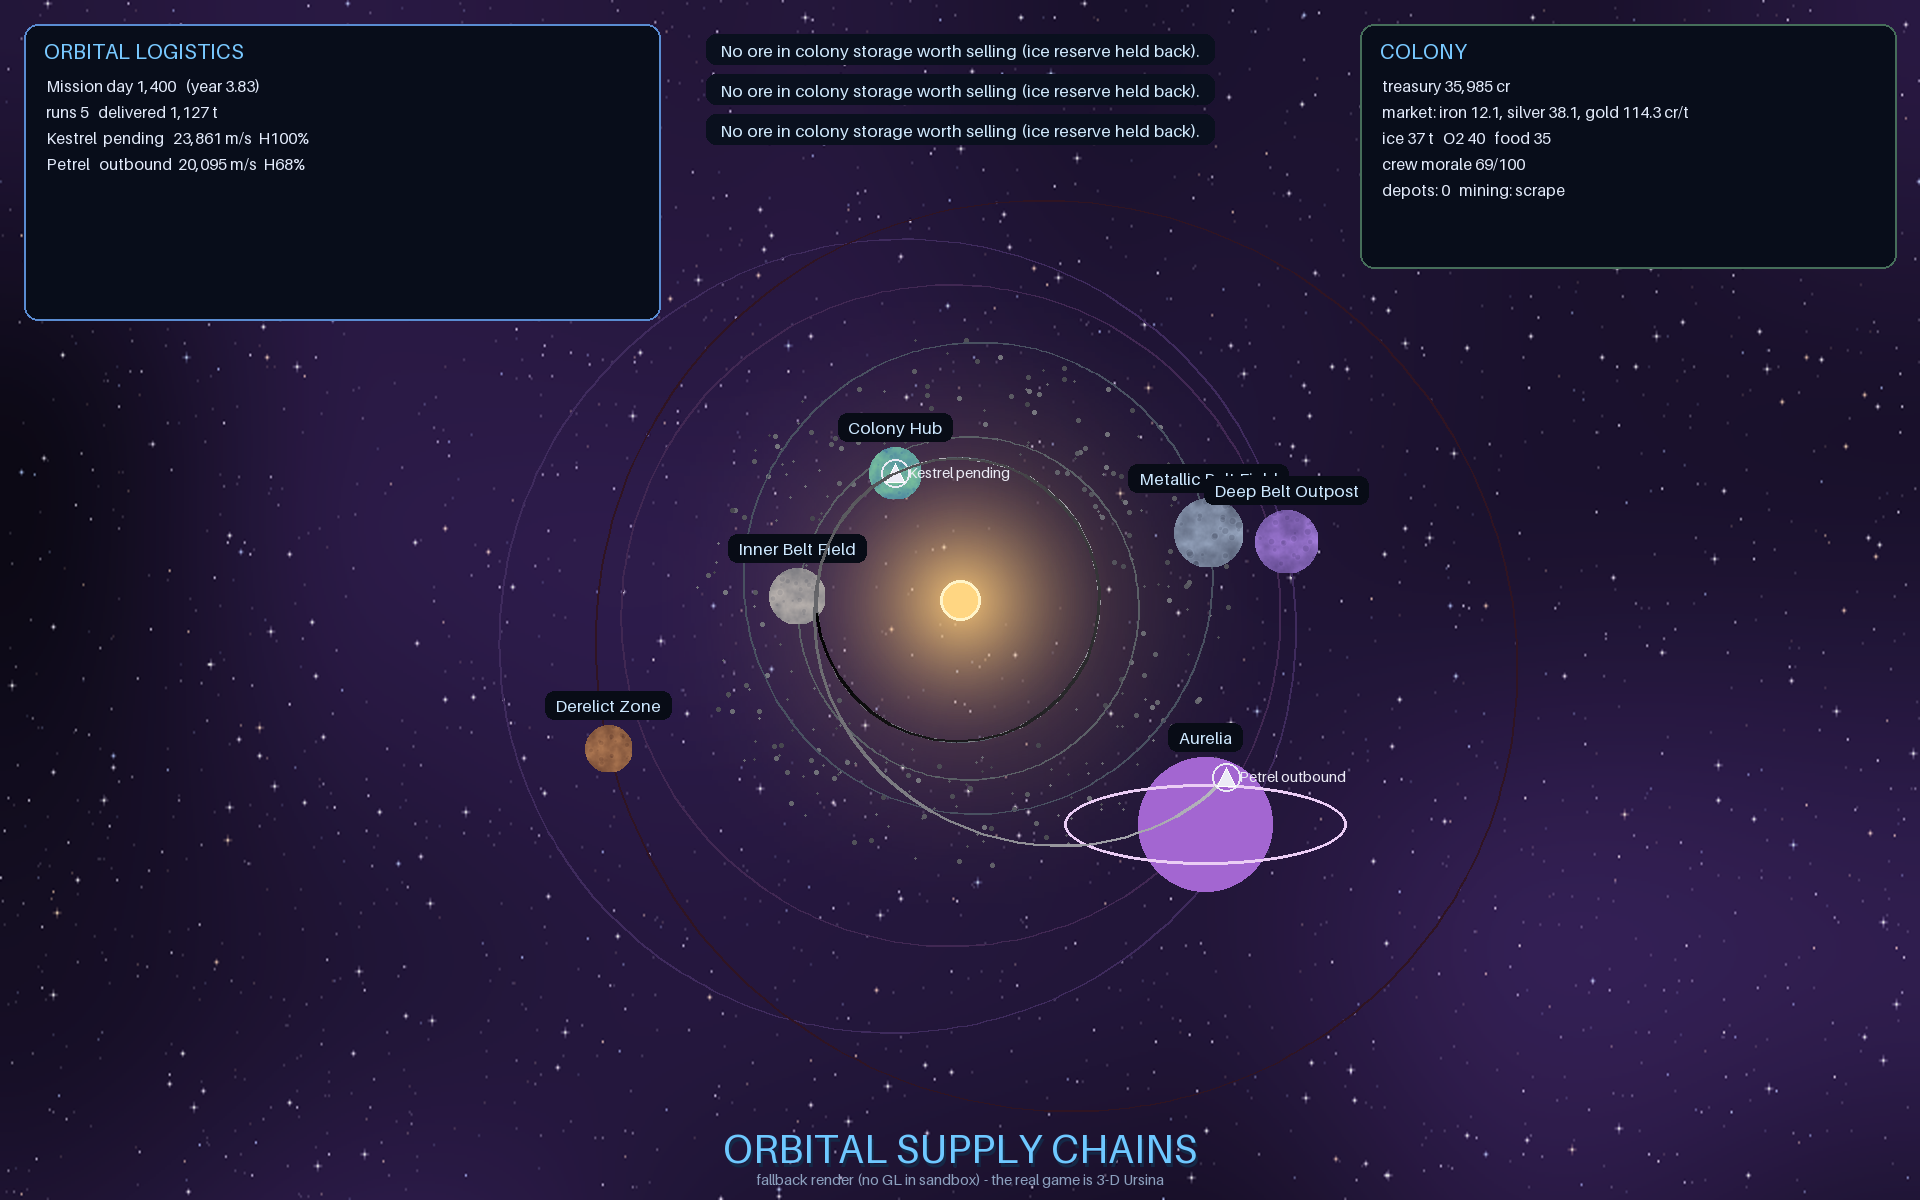
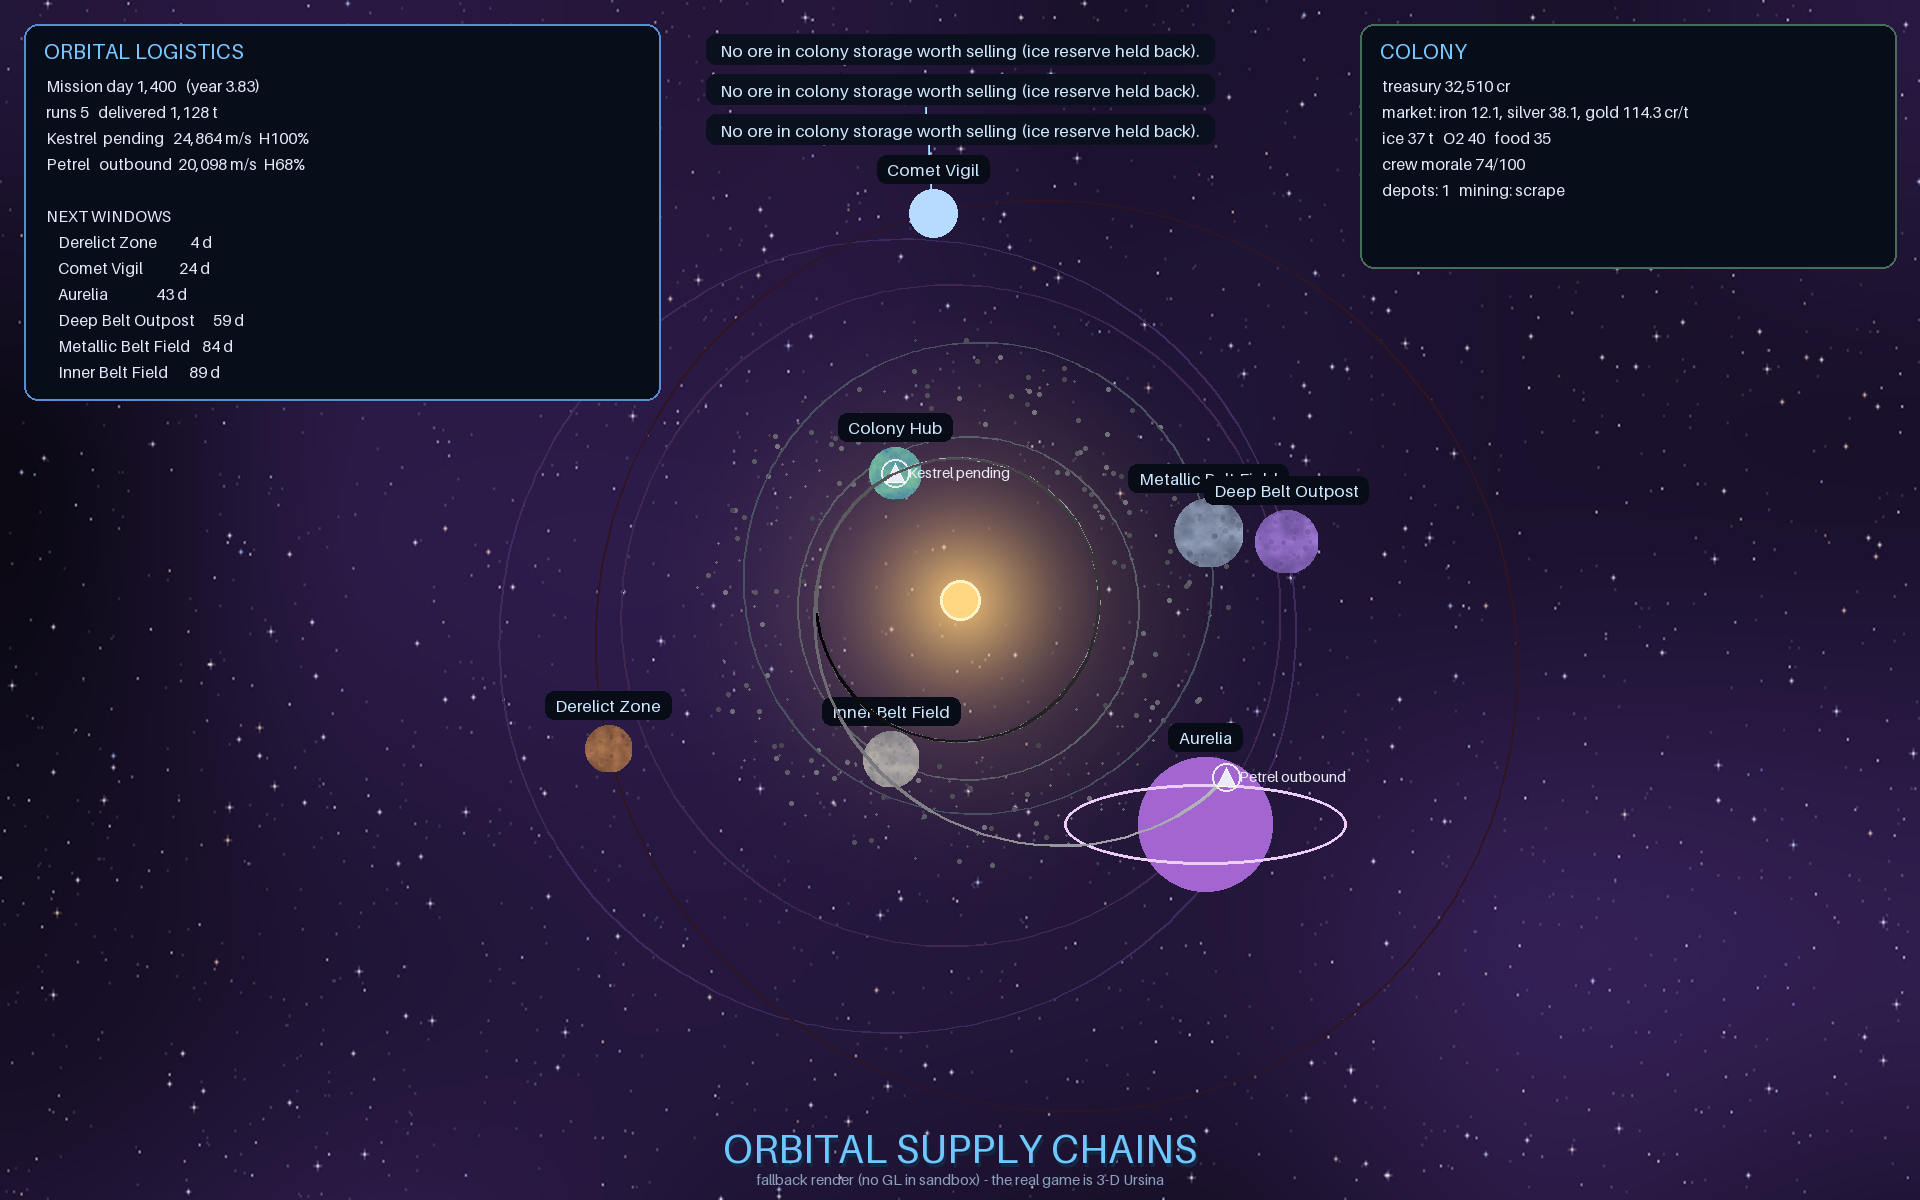
Wrap the feature build: docs, run-log, key-art refresh with comet and board

diff --git a/scripts/capture_frame.py b/scripts/capture_frame.py
@@ -111,11 +111,15 @@ def _fallback_capture(reason: BaseException) -> int:
     # A lively mid-game moment: ~1,000 days in, fleet busy, colony funded.
     dt_days = 2.0
     next_sale = 90.0 * SIM_SECONDS_PER_DAY
+    depot_built = False
     for _ in range(FRAMES):
         game.update(dt_days)
         if game.sim.time >= next_sale:
             next_sale += 90.0 * SIM_SECONDS_PER_DAY
             game.sell_all()
+        if not depot_built and game.credits > 8000.0:
+            game.build_depot_selected()   # headless default: the deep belt
+            depot_built = True
         for ship in game.sim.ships:
             r, _ = ship.state_at(game.sim.time)
             trails[ship.name].append((float(r[0]), float(r[1])))
@@ -187,12 +191,21 @@ def _fallback_capture(reason: BaseException) -> int:
         if len(pts) > 1:
             draw.line(pts, fill=tuple(int(c * 0.40) for c in rgb), width=2)
 
-    for key, body in BODIES.items():
+    for key, body in list(game.sim.bodies.items()):
         if key == "nix":
             continue
         r_body, _ = body_state(body.elements, 4 * math.pi * math.pi, now)
         bx, by = p(float(r_body[0]), float(r_body[1]))
         diameter = int(30 + 44 * body.render_scale)
+        if key == "comet_vigil":
+            # Anti-sunward tail, brightness by distance.
+            dist = math.hypot(r_body[0], r_body[1])
+            strength = max(0.0, min(1.0, 1.6 / max(0.9, dist) ** 1.6))
+            if strength > 0.02:
+                ux, uy = -r_body[0] / dist, -r_body[1] / dist  # toward the sun
+                tx, ty = p(float(r_body[0]) - ux * 0.9, float(r_body[1]) - uy * 0.9)
+                draw.line((bx, by, tx, ty), fill=(120, 190, 235), width=max(2, int(9 * strength)))
+                draw.line((bx, by, tx, ty), fill=(190, 225, 250), width=max(1, int(3 * strength)))
         tex_path = os.path.join("assets", "textures", "game", f"{key}.png")
         if os.path.isfile(tex_path):
             tex = Image.open(tex_path).convert("RGB").resize((diameter, diameter))
@@ -252,10 +265,15 @@ def _fallback_capture(reason: BaseException) -> int:
         fleet_lines.append(
             f"{report['name']:<8} {report['status']:<9} {report['delta_v_left']:>6,.0f} m/s  H{hull:.0f}%"
         )
-    panel((24, 24, 660, 320), "ORBITAL LOGISTICS", [
+    game._update_windows_board()
+    board_lines = ["NEXT WINDOWS"]
+    for name, wait, is_open in game._windows_board[:6]:
+        board_lines.append(f"GO  {name}" if is_open else f"    {name:<20}{wait:>5,.0f} d")
+    panel((24, 24, 660, 400), "ORBITAL LOGISTICS", [
         f"Mission day {days:,.0f}   (year {days / 365.25:.2f})",
         f"runs {game.sim.stats['runs_completed']}   delivered {game.sim.stats['mass_delivered']:,.0f} t",
         *fleet_lines,
+        *([""] + board_lines),
     ])
     resources = game.colony.state["resources"]
     prices = ", ".join(f"{res} {game.market.price(res):.1f}" for res in ("iron", "silver", "gold"))

diff --git a/project.md b/project.md
@@ -63,9 +63,11 @@ The upstream `asteroid-colony` economic regions are modelled as real heliocentri
 | Gravitational perturbations | Every 500-950 days a passing body shifts one belt orbit slightly; the campaign's own body table changes, window caches drop and the fleet re-plans; the verified module constants and tests are untouched. |
 | Jump-to-event | `J` cycles upcoming moments (window openings, ETAs, flare warnings, order deadlines) and races the warp to them, restoring the old warp on arrival; a bottom ticker streams the latest log entry. |
 | Save / load | F5/F9 quick-save of the full game state (ships in flight, missions, windows, ledgers, market RNG, colony state, crews, weather, contracts) as JSON via the upstream savegame slots. |
-| Rendering | Ursina scene: inverted starfield-sprite skybox, layered sun corona billboards, unlit textured planets with billboard name tags, double ring on Aurelia, a 240-rock scattered belt, stylised multi-part freighters with per-class hull tints and textured engine flares, fading trails, smoothed chase camera, click-to-target picking. |
-| Game shell | Title screen with cinematic drift (ENTER launches), ESC pause card, toast stack, launch-window GO moment (blinking banner + chime when the selected window opens), launch-window countdown line. |
+| Rendering | Ursina scene: inverted starfield-sprite skybox, layered sun corona billboards, unlit textured planets with billboard name tags, double ring on Aurelia, the whole asteroid belt baked into a single mesh (one draw call), per-class ship silhouettes (needle scout, barge hauler, drummed refinery) with tints and textured engine flares, fading trails, smoothed chase camera, click-to-target picking, pulsing target reticle, quality presets. |
+| Game shell | Keyboard-navigable title menu (new game / continue / load / settings / how-to-play / quit), pause menu with quit-to-title, persistent settings (quality preset, audio, camera glide) in a dedicated savegame slot, 3-page how-to-play, toast stack, launch-window GO moment (blinking banner + chime), NEXT WINDOWS board counting down every route. |
 | Refuel depots | Player-built ISRU stations at trade bodies (R): delta-v tank + per-level generation; depot-assisted dispatch lends the shortfall against depot stock and ships draw the ride home at docking, unlocking runs no single tank could afford. |
+| Comet Vigil | A long-period eccentric comet (e=0.8) as a campaign-only body: rare expensive windows, primordial ice + platinum veins, anti-sunward tail with inverse-square brightness, own windows-board entry. |
+| Parts market & upgrades | Drop Tanks / Deep Drill / Crew Quarters / Depot Drone Bay at seasonally swinging, count-escalating Earth prices; T/Y/U refit the least-upgraded docked ship, P installs drone bays that honestly mine waiting ships' holds full from the shared depletion ledgers. |
 | HUD | Clock/warp, selected target, transfer plan with live assay, fleet status with hull, ETA, delta-v, flight log, Earth-market panel, fleet-ops panel, storage and lifetime tonnage. |
 | Assets | Procedural OBJ/PNG only; no external binary blobs. |
 | Tooling | Test suite (65 tests), screenshot capture, porkchop plot script, run log. |

diff --git a/README.md b/README.md
@@ -1,6 +1,6 @@
 # Asteroid-Colony Proto
 
-**Orbital Supply Chains** is a compact, stylised 3-D launch-window game: real planets on real heliocentric orbits, a glowing sun, a scattered asteroid belt and a starfield sky -- all generated procedurally, no binary assets. Wait for the window (the HUD announces it and chimes), click a planet to target it, dispatch, and keep the colony breathing. The astrodynamics underneath is real patched-conic mechanics: launch windows, delta-v budgets, capture burns, layovers, multi-revolution slow routes, and deliveries booked into the upstream colony economy.
+**Orbital Supply Chains** is a compact, stylised 3-D launch-window game: real planets on real heliocentric orbits, a glowing sun, a scattered asteroid belt and a starfield sky -- all generated procedurally, no binary assets. Wait for the window (a NEXT WINDOWS board counts down every route; a banner and chime announce GO), click a planet to target it, dispatch, and keep the colony breathing. Deep runs need player-built refuel depots, the long-period Comet Vigil pays a platinum jackpot if you catch it, and the Earth parts market sells drop tanks, deep drills, crew quarters and depot drone bays at seasonal prices. The astrodynamics underneath is real patched-conic mechanics: launch windows, delta-v budgets, capture burns, layovers, multi-revolution slow routes, and deliveries booked into the upstream colony economy.
 
 The orbital layer runs patched-conic transfers solved with Izzo's universal Lambert algorithm, including its multi-revolution branches (slow, propellant-cheap routes that the planner only picks when they genuinely pay).
 
@@ -35,12 +35,16 @@ python3 -m venv .venv
 - Click: select the planet under the cursor as transfer target
 - B / V: accept / decline the oldest Earth offer
 - R: build / upgrade a refuel depot at the selected body
+- T / Y / U: buy Drop Tanks / a Deep Drill / Crew Quarters for a docked ship
+- P: install a drone bay at the selected depot (fills waiting ships)
+- K: cycle quality preset (belt, trails, sky) -- N mutes, both persist
 - G / H: hire a miner / dismiss the unhappiest crew member (Z: botanist)
 - J: jump the warp to the next interesting event (windows, ETAs, deadlines)
 - N: mute audio
 - F5 / F9: quick-save / quick-load (`saves/` JSON)
+- Title menu: NEW GAME / CONTINUE / LOAD / SETTINGS / HOW TO PLAY / QUIT
 - Mouse wheel: zoom
-- Esc: quit
+- ESC: pause (Resume / Save / Load / Settings / Quit to title)
 
 ## Artifacts
 
